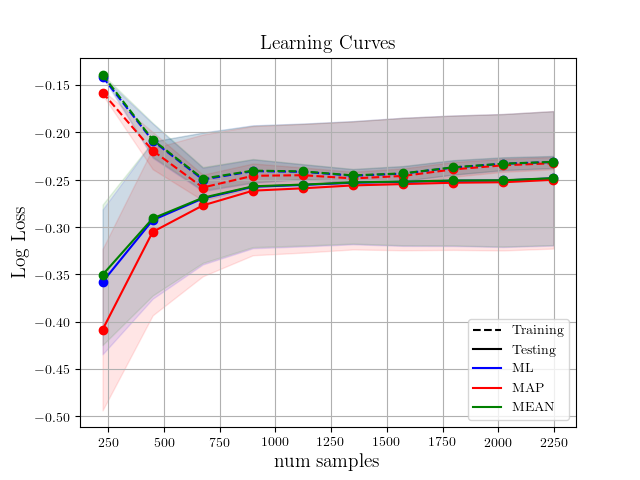
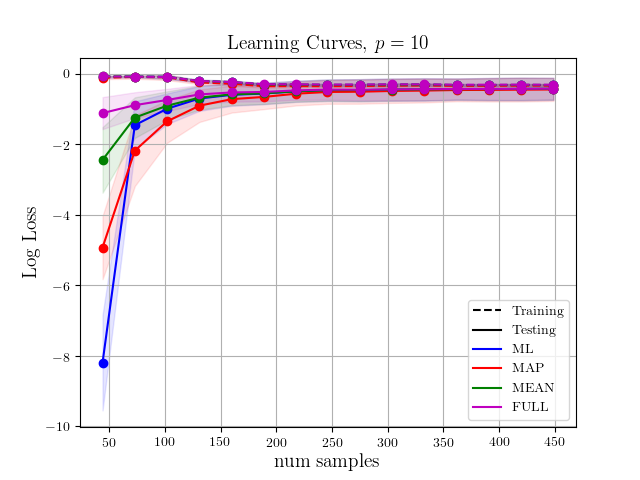
Some more plotting and bug fixes

diff --git a/test.py b/test.py
@@ -61,9 +61,9 @@ class testDA_fits(unittest.TestCase):
         X = np.random.normal(size=(N, p))
         y = np.random.choice(C, size=N)
 
-        DA = DiscriminantAnalysis()
-        DA.fit(X, y, method=BAYES_FULL, do_logging=True)
-        # DA.predict_proba(X)
+        DA = DiscriminantAnalysis(do_logging=True)
+        DA.fit(X, y, method=BAYES_FULL)
+        DA.predict_proba(X)
         return
 
 
@@ -74,7 +74,7 @@ def visualize_3class(X, y_cls, DA, title=None, save_file=None):
     y = np.linspace(1.1 * y_min, 1.1 * y_max, 500)
     xx, yy = np.meshgrid(x, y)
     xxyy = np.array([xx.ravel(), yy.ravel()]).T
-    P = DA.predict_proba(xxyy)
+    P = DA.predict_proba(xxyy, ret_array=False)
     P = {c: P[c].reshape(xx.shape) for c in P.keys()}
     Z = np.stack((P[c] for c in P.keys()), -1)
 
@@ -141,6 +141,17 @@ class testDA_visualize(unittest.TestCase):
                          save_file="./figures/MEAN_boundaries.png")
         return
 
+    def test003_FULL(self):
+        X, y_cls = self.X, self.y_cls
+
+        DA = DiscriminantAnalysis()
+        DA.fit(X, y_cls, method=BAYES_FULL)
+
+        visualize_3class(X, y_cls, DA,
+                         title="Full Bayes Decision Boundaries",
+                         save_file="./figures/FULL_boundaries.png")
+        return
+
 
 class testDA_ll(unittest.TestCase):
     def plot_learning_curve(self, estimator, X, y, ax, train_sizes,
@@ -166,32 +177,43 @@ class testDA_ll(unittest.TestCase):
         ax.plot(train_sizes, test_scores_mean, 'o-', color=color)
         return ax
 
-    def learning_curve_plots(self, X, y, save_file=None):
+    def learning_curve_plots(self, X, y, title=None, save_file=None):
         fig, ax = plt.subplots(1, 1)
         DA_ML = DiscriminantAnalysis(fit_method=MAXIMUM_LIKELIHOOD)
         DA_MAP = DiscriminantAnalysis(fit_method=BAYES_MAP)
         DA_MEAN = DiscriminantAnalysis(fit_method=BAYES_MEAN)
+        DA_FULL = DiscriminantAnalysis(fit_method=BAYES_FULL)
 
+        train_sizes = np.linspace(0.1, 1.0, 15)
         ax = self.plot_learning_curve(DA_ML, X, y, ax,
-                                      train_sizes=np.linspace(.1, 1.0, 10),
+                                      train_sizes=train_sizes,
                                       color="b")
         ax = self.plot_learning_curve(DA_MAP, X, y, ax,
-                                      train_sizes=np.linspace(.1, 1.0, 10),
+                                      train_sizes=train_sizes,
                                       color="r")
         ax = self.plot_learning_curve(DA_MEAN, X, y, ax,
-                                      train_sizes=np.linspace(.1, 1.0, 10),
+                                      train_sizes=train_sizes,
                                       color="g")
+        ax = self.plot_learning_curve(DA_FULL, X, y, ax,
+                                      train_sizes=train_sizes,
+                                      color="m")
+
         ax.plot([], label="Training", linestyle="--", color="k")
         ax.plot([], label="Testing", linestyle="-", color="k")
         ax.plot([], label="ML", color="b")
         ax.plot([], label="MAP", color="r")
         ax.plot([], label="MEAN", color="g")
+        ax.plot([], label="FULL", color="m")
 
         plt.legend()
         plt.grid()
         plt.xlabel("num samples", fontsize=14)
         plt.ylabel("Log Loss", fontsize=14)
-        plt.title("Learning Curves", fontsize=14)
+        if title is None:
+            plt.title("Learning Curves", fontsize=14)
+        else:
+            plt.title(title, fontsize=14)
+
         if save_file is not None:
             plt.savefig(save_file)
         plt.show()
@@ -199,20 +221,20 @@ class testDA_ll(unittest.TestCase):
 
     def test001(self):
         np.random.seed(0)
-        N = 1000
+        N = 500
         p = 2
         n_classes = 3
         X, y = datasets.make_classification(n_samples=N, n_features=p,
                                             n_informative=p, n_redundant=0,
                                             n_clusters_per_class=1,
                                             n_classes=n_classes)
-        self.learning_curve_plots(X, y, save_file="./figures/"
-                                  "learning_curves001.png")
+        self.learning_curve_plots(X, y, title=r"Learning Curves, $p = %d$" % p,
+                                  save_file="./figures/learning_curves001.png")
         return
 
     def test002(self):
         np.random.seed(0)
-        N = 2500
+        N = 500
         p = 10
         n_classes = 3
         X, y = datasets.make_classification(n_samples=N, n_features=p,
@@ -220,6 +242,6 @@ class testDA_ll(unittest.TestCase):
                                             n_redundant=0,
                                             n_clusters_per_class=2,
                                             n_classes=n_classes)
-        self.learning_curve_plots(X, y, save_file="./figures/"
-                                  "learning_curves002.png")
+        self.learning_curve_plots(X, y, title=r"Learning Curves, $p = %d$" % p,
+                                  save_file="./figures/learning_curves002.png")
         return

diff --git a/DA.py b/DA.py
@@ -1,6 +1,8 @@
 import numpy as np
 
+import scipy as sp
 from scipy import stats
+from scipy.special import gammaln
 from sklearn.base import BaseEstimator, ClassifierMixin
 import logging
 
@@ -9,6 +11,40 @@ MAXIMUM_LIKELIHOOD = "ML"
 BAYES_MAP = "MAP"
 BAYES_MEAN = "Mean"
 BAYES_FULL = "Bayes"
+
+
+def mvar_t_pdf(X, mu, Sigma, nu):
+    """
+    Evaluate the density function of a multivariate student t
+    distribution at the points X
+
+    params:
+      X (np.array n x p): The points at which to evaluate the density
+      mu (np.array p): The mean parameter
+      Sigma (np.array p x p): The scale matrix
+      nu (int): degrees of freedom parameter
+    """
+    p = X.shape[1]
+    log_ret = 0
+    # log Z (normalizing constant)
+    logZ = ((p / 2) * np.log(np.pi) + gammaln(nu / 2) -
+            gammaln((nu / 2) + (p / 2)))
+    log_ret -= logZ
+
+    V = nu * Sigma
+    L = np.linalg.cholesky(V)  # V = L @ L.T
+    half_logdetV = np.sum(np.log(np.diag(L)))  # log det V
+    log_ret -= half_logdetV
+
+    # z = L_inv @ (x - mu) Remember: (LL.T)^-1 = L.T^-1 L^-1
+    # L.T @ z = x - mu
+    # => L.T @ z = U.T
+
+    U = X - mu[None, :]
+    z = sp.linalg.solve_triangular(L, U.T, lower=True)
+    log_quad = np.log1p(np.linalg.norm(z, ord=2, axis=0)**2)
+    log_ret -= 0.5 * (nu + p) * log_quad
+    return np.exp(log_ret)
 
 
 class DiscriminantAnalysis(BaseEstimator, ClassifierMixin):
@@ -138,10 +174,17 @@ class DiscriminantAnalysis(BaseEstimator, ClassifierMixin):
                     raise e
 
         else:  # T-distributed posterior
-            # scipy.stats has no multivariate t distribution
-            # I can roll my own but want to get the other methods
-            # ironed out first.
-            raise NotImplementedError
+            def prob(c):
+                try:
+                    return self.pi[c] *\
+                        mvar_t_pdf(X, self.mu[c], self.Sigma[c],
+                                   self.nu_post[c])
+                except np.linalg.LinAlgError as e:  # Singular matrix
+                    if self.do_logging:
+                        self.loger.error("LinAlgError on normal.pdf "
+                                         "mean = %s, cov = %s"
+                                         % (self.mu[c], self.Sigma[c]))
+                    raise e
 
         density = {}
         normalizer = np.zeros(X.shape[0])
@@ -153,7 +196,7 @@ class DiscriminantAnalysis(BaseEstimator, ClassifierMixin):
                 if self.do_logging:
                     self.logger.error("Caught LinAlgError when evaluating "
                                       "probability, attempting to continue")
-                density[c] = P
+                density[c] = np.zeros_like(P)
                 continue  # Skip updating the normalizer
 
             density[c] = P
